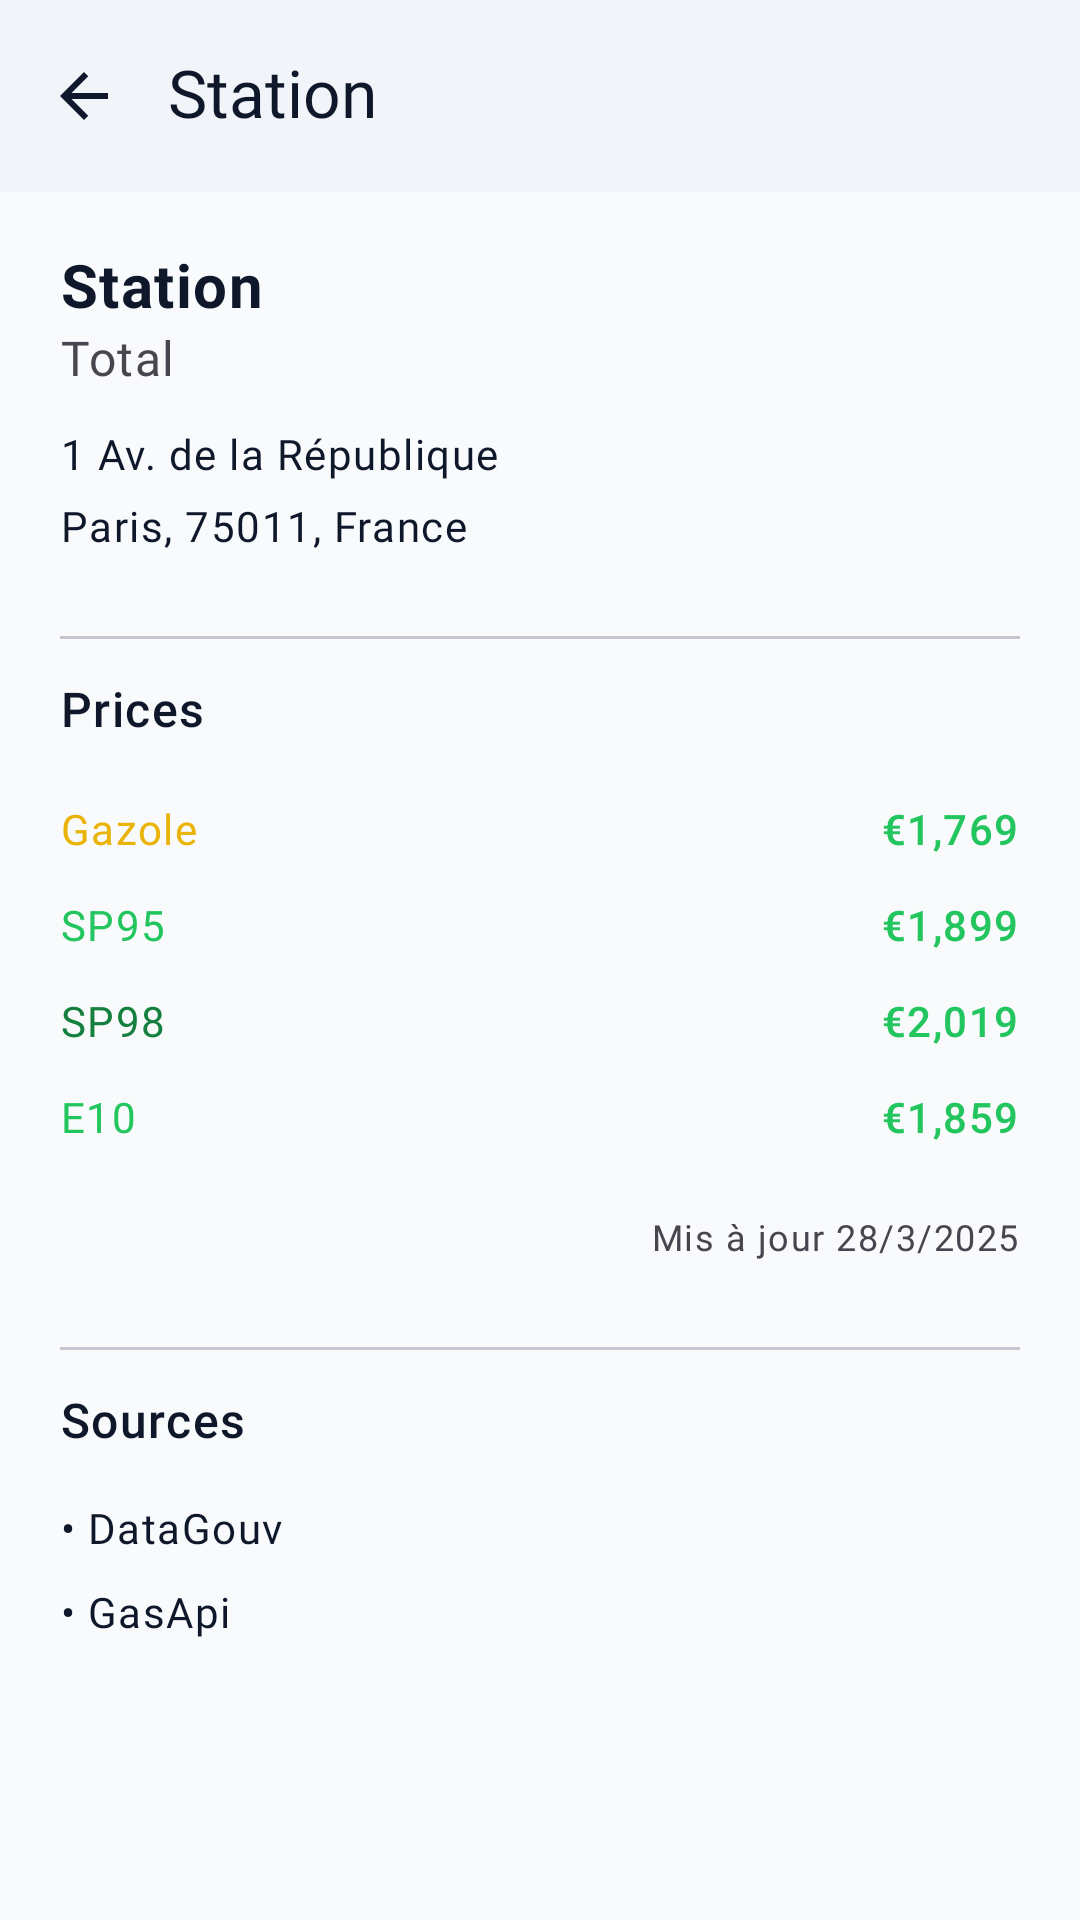
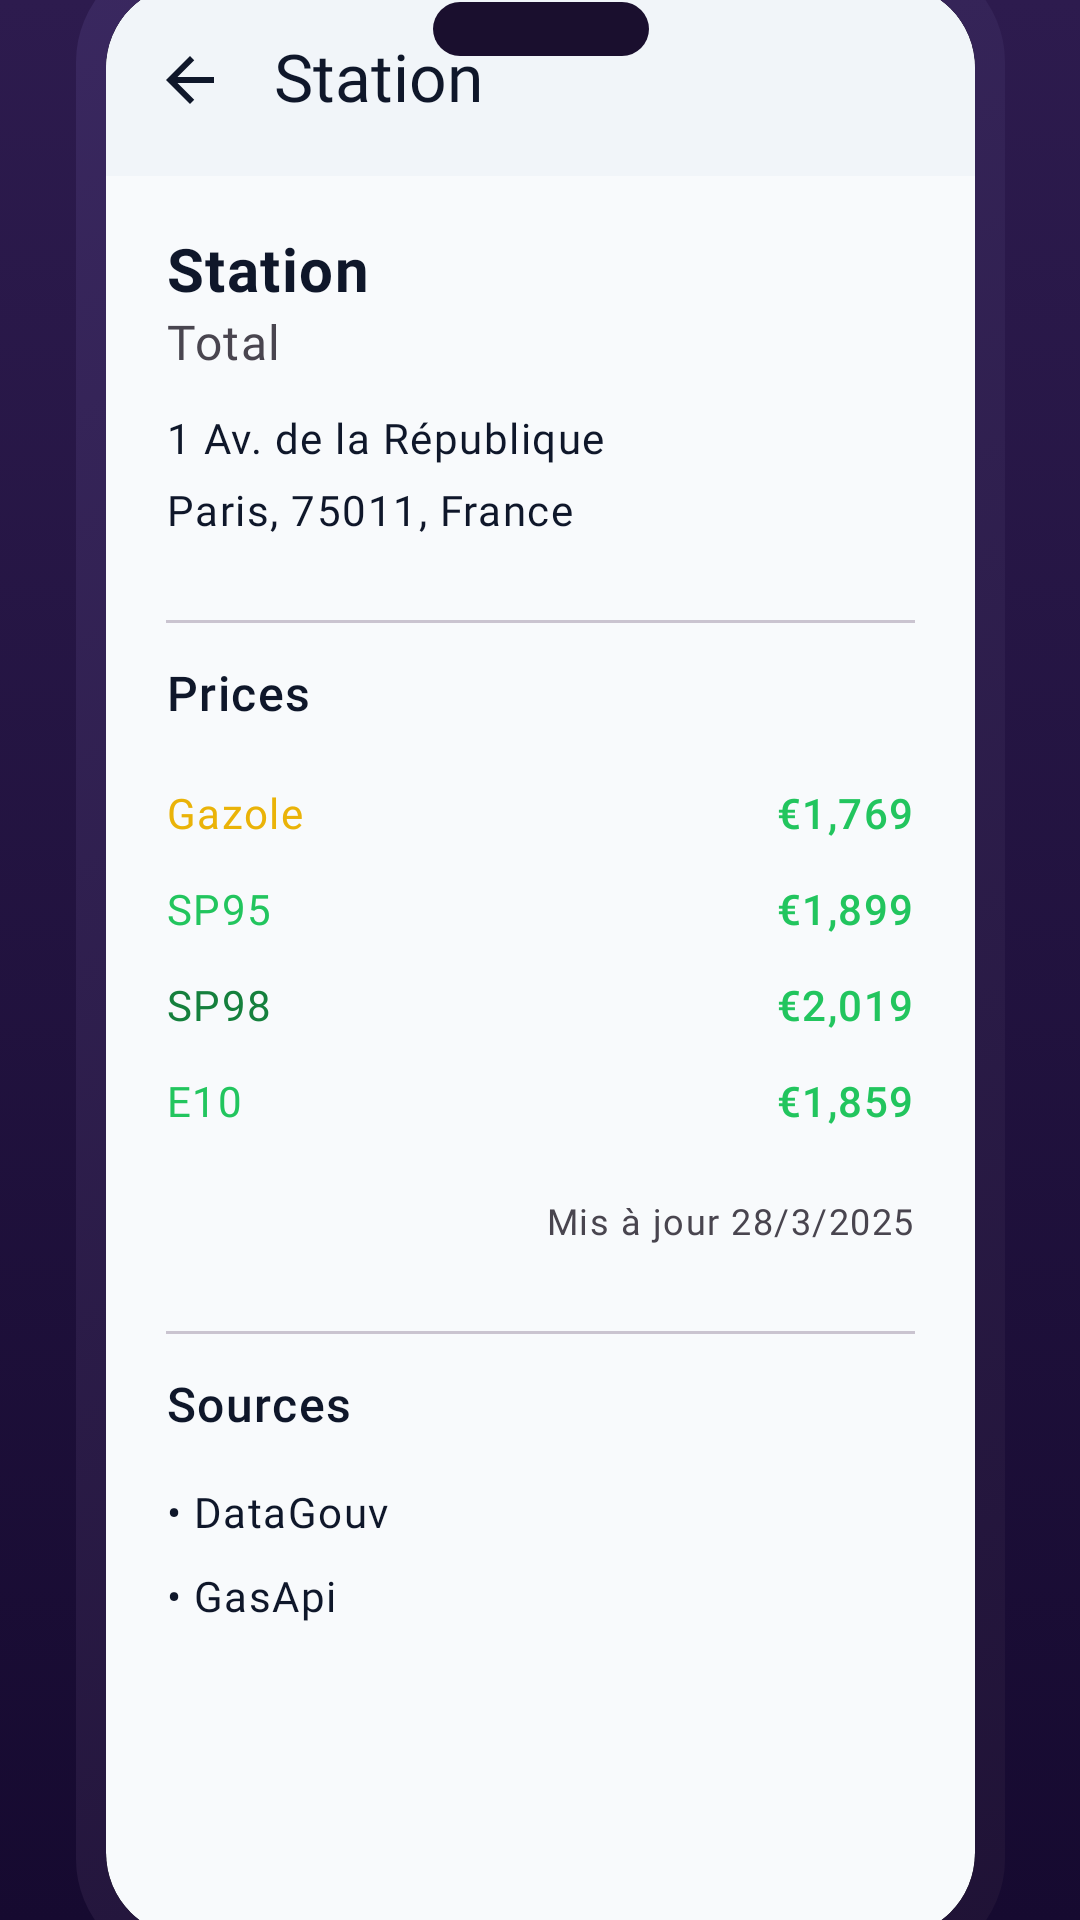
Refresh marketing screenshots with branded device frame.
Wrap Robolectric exports in MarketingScreenshotFrame, regenerate Play Store
and website PNGs, and simplify the landing page hero styling.

diff --git a/androidApp/src/main/kotlin/fr/geoking/gaston/marketing/MarketingScreenshotFrame.kt b/androidApp/src/main/kotlin/fr/geoking/gaston/marketing/MarketingScreenshotFrame.kt
@@ -1,0 +1,80 @@
+package fr.geoking.gaston.marketing
+
+import androidx.compose.foundation.background
+import androidx.compose.foundation.layout.Box
+import androidx.compose.foundation.layout.aspectRatio
+import androidx.compose.foundation.layout.fillMaxSize
+import androidx.compose.foundation.layout.fillMaxWidth
+import androidx.compose.foundation.layout.padding
+import androidx.compose.foundation.layout.size
+import androidx.compose.foundation.shape.RoundedCornerShape
+import androidx.compose.runtime.Composable
+import androidx.compose.ui.Alignment
+import androidx.compose.ui.Modifier
+import androidx.compose.ui.draw.clip
+import androidx.compose.ui.graphics.Brush
+import androidx.compose.ui.graphics.Color
+import androidx.compose.ui.unit.dp
+
+/**
+ * Play Store / website export chrome: brand backdrop + rounded phone chassis (boîtier),
+ * not a flat white 9:16 rectangle.
+ */
+@Composable
+fun MarketingScreenshotFrame(
+    modifier: Modifier = Modifier,
+    content: @Composable () -> Unit,
+) {
+    Box(
+        modifier = modifier
+            .fillMaxSize()
+            .background(
+                Brush.verticalGradient(
+                    colors = listOf(
+                        Color(0xFF2D1B4E),
+                        Color(0xFF160A30),
+                    ),
+                ),
+            ),
+    ) {
+        Box(
+            modifier = Modifier
+                .align(Alignment.Center)
+                .fillMaxWidth(0.86f)
+                .aspectRatio(9f / 19.5f)
+                .clip(RoundedCornerShape(36.dp))
+                .background(
+                    Brush.linearGradient(
+                        colors = listOf(
+                            Color(0xFF3A2860),
+                            Color(0xFF1F1235),
+                        ),
+                    ),
+                )
+                .padding(10.dp),
+        ) {
+            Box(
+                modifier = Modifier
+                    .fillMaxSize()
+                    .clip(RoundedCornerShape(28.dp))
+                    .background(Color(0xFF0F0A18)),
+            ) {
+                Box(
+                    modifier = Modifier
+                        .fillMaxSize()
+                        .clip(RoundedCornerShape(28.dp)),
+                ) {
+                    content()
+                }
+                Box(
+                    modifier = Modifier
+                        .align(Alignment.TopCenter)
+                        .padding(top = 6.dp)
+                        .size(width = 72.dp, height = 18.dp)
+                        .clip(RoundedCornerShape(10.dp))
+                        .background(Color(0xFF1A0F2E)),
+                )
+            }
+        }
+    }
+}

diff --git a/website/css/styles.css b/website/css/styles.css
@@ -445,49 +445,19 @@ a:hover {
   pointer-events: none;
 }
 
-.phone-frame {
-  position: relative;
-  width: min(280px, 75vw);
-  aspect-ratio: 9 / 19.5;
-  background: linear-gradient(145deg, #3a2860 0%, #1f1235 100%);
-  border-radius: 36px;
-  padding: 10px;
-  box-shadow:
-    var(--shadow),
-    inset 0 1px 0 rgba(255, 255, 255, 0.15);
+/* PNG exports already include the rounded device chassis (MarketingScreenshotFrame). */
+.hero-device-shot {
+  display: block;
+  width: min(300px, 78vw);
+  height: auto;
+  margin-inline: auto;
+  filter: drop-shadow(0 24px 48px rgba(0, 0, 0, 0.45));
   transform: rotateY(-8deg) rotateX(4deg);
   transition: transform 0.6s var(--ease);
 }
 
-.phone-frame:hover {
+.phone-wrap:hover .hero-device-shot {
   transform: rotateY(-4deg) rotateX(2deg);
-}
-
-.phone-notch {
-  position: absolute;
-  top: 12px;
-  left: 50%;
-  transform: translateX(-50%);
-  width: 90px;
-  height: 24px;
-  background: #1a0f2e;
-  border-radius: 20px;
-  z-index: 2;
-}
-
-.phone-screen {
-  width: 100%;
-  height: 100%;
-  border-radius: 28px;
-  overflow: hidden;
-  background: #0f0a18;
-}
-
-.phone-screen img {
-  width: 100%;
-  height: 100%;
-  object-fit: cover;
-  object-position: top;
 }
 
 .phone-dots {
@@ -650,10 +620,8 @@ section {
   flex: 0 0 auto;
   width: min(220px, 42vw);
   scroll-snap-align: start;
-  border-radius: 20px;
-  overflow: hidden;
-  border: 1px solid var(--glass-border);
-  box-shadow: var(--shadow);
+  border-radius: 16px;
+  overflow: visible;
   transition: transform 0.3s var(--ease);
 }
 
@@ -662,9 +630,12 @@ section {
 }
 
 .showcase-item img {
-  aspect-ratio: 9 / 16;
-  object-fit: cover;
+  display: block;
   width: 100%;
+  height: auto;
+  aspect-ratio: 9 / 16;
+  object-fit: contain;
+  filter: drop-shadow(0 12px 28px rgba(0, 0, 0, 0.35));
 }
 
 .showcase-caption {

diff --git a/website/index.html b/website/index.html
@@ -98,12 +98,14 @@
         <div class="phone-wrap reveal">
           <div class="phone-glow" aria-hidden="true"></div>
           <div>
-            <div class="phone-frame">
-              <div class="phone-notch" aria-hidden="true"></div>
-              <div class="phone-screen">
-                <img id="hero-screenshot" src="/assets/screenshots/screenshot-1-map.png" width="260" height="520" alt="Carte Gaston">
-              </div>
-            </div>
+            <img
+              id="hero-screenshot"
+              class="hero-device-shot"
+              src="/assets/screenshots/screenshot-1-map.png"
+              width="300"
+              height="533"
+              alt="Carte Gaston"
+            >
             <div class="phone-dots" role="tablist" aria-label="Captures d'écran"></div>
           </div>
         </div>

diff --git a/androidApp/src/test/kotlin/fr/geoking/gaston/marketing/MarketingScreenshotTest.kt b/androidApp/src/test/kotlin/fr/geoking/gaston/marketing/MarketingScreenshotTest.kt
@@ -16,7 +16,7 @@ import java.io.File
 import java.io.FileOutputStream
 
 /**
- * Exports 1080×1920 PNGs from real Compose UI into playstore-assets/ and website/.
+ * Exports 1080×1920 PNGs (brand backdrop + rounded phone chassis) into playstore-assets/ and website/.
  *
  * Run: ./scripts/regenerate_screenshots.sh
  */
@@ -40,7 +40,9 @@ class MarketingScreenshotTest {
 
     private fun export(name: String, content: @Composable () -> Unit) {
         composeRule.mainClock.autoAdvance = true
-        composeRule.setContent { content() }
+        composeRule.setContent {
+            MarketingScreenshotFrame { content() }
+        }
         Thread.sleep(1200)
         val decor = composeRule.activity.window.decorView
         decor.measure(

diff --git a/website/README.md b/website/README.md
@@ -38,7 +38,7 @@ npx netlify-cli dev --dir website
 | `css/styles.css` | Styles (brand colors from `playstore-assets/README.md`) |
 | `js/main.js` | i18n, slideshow, scroll effects |
 
-Screenshots and icon are copied from `playstore-assets/`. After updating store assets, refresh:
+Screenshots are generated from real app Compose UI, wrapped in a rounded device chassis on a brand-purple backdrop (`MarketingScreenshotFrame`; see `scripts/regenerate_screenshots.sh`). After updating store assets:
 
 ```bash
 cp playstore-assets/icon-512.png website/assets/
